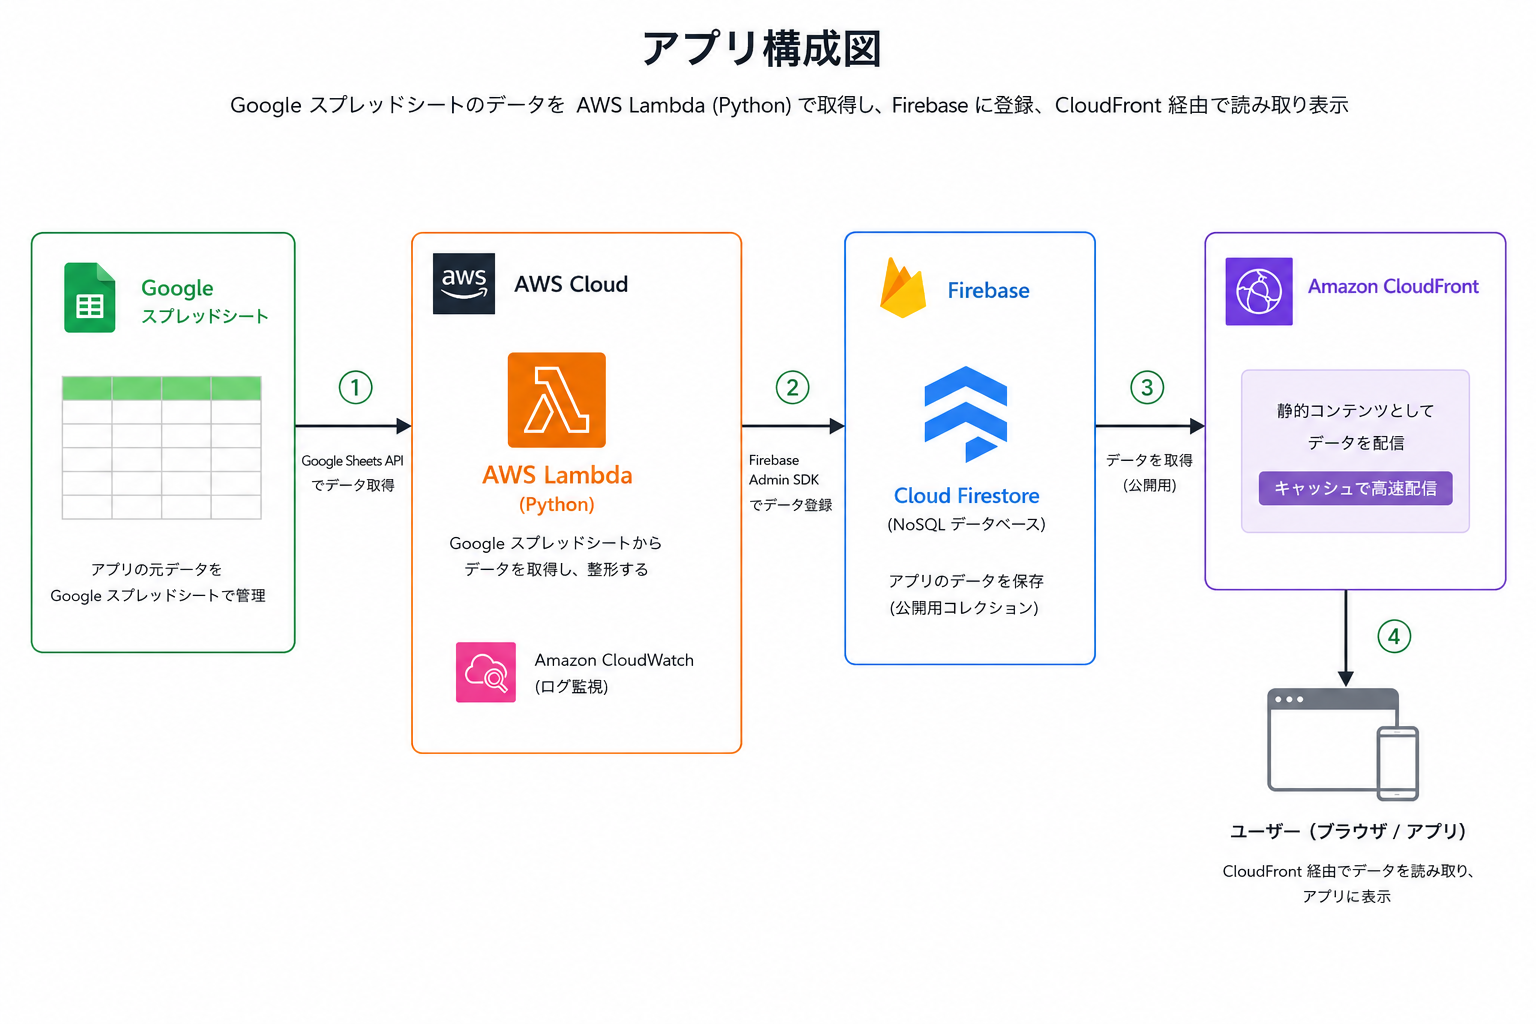
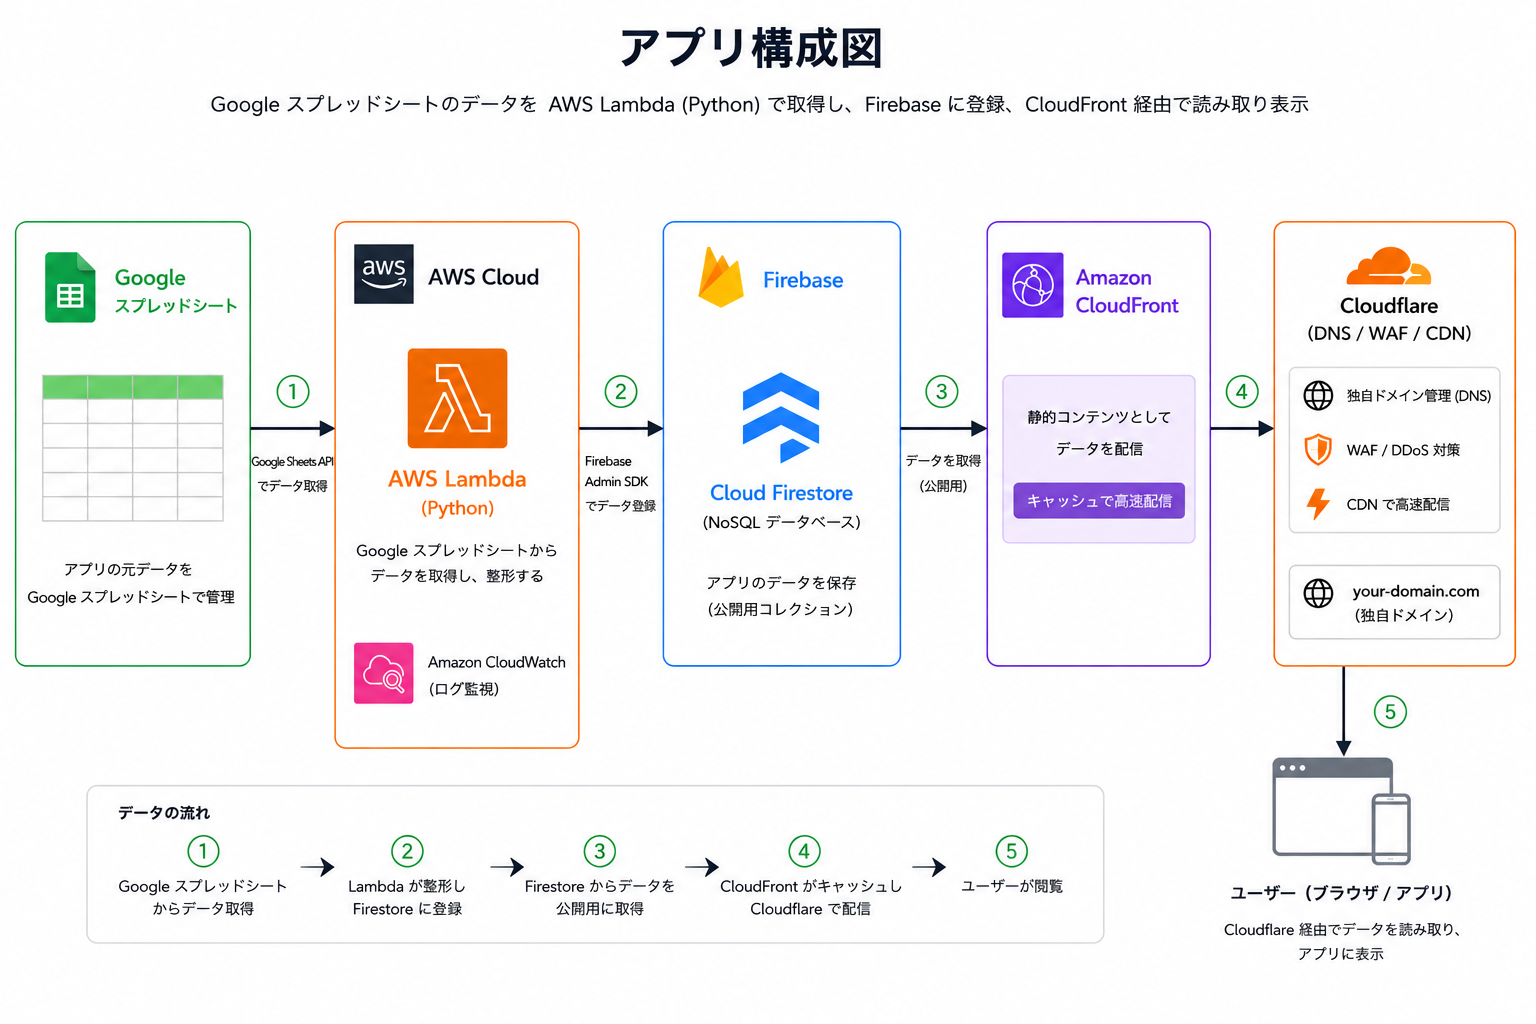
`READMEにデプロイURLとドメイン取得情報を追加`

diff --git a/README.md b/README.md
@@ -6,7 +6,10 @@ AI時代だからこそ必要となる、開発者のための「公式ドキュ
 
 ---
 
-## URL :https://dyktoa4djg2uu.cloudfront.net/
+## URL :https://gati-docs-kokodayo.com
+
+## ドメイン
+Cloudflareでドメインを取得し、AWS cloudfrontにホスティング
 
 ## デモ
 ![デモ](front.png)
